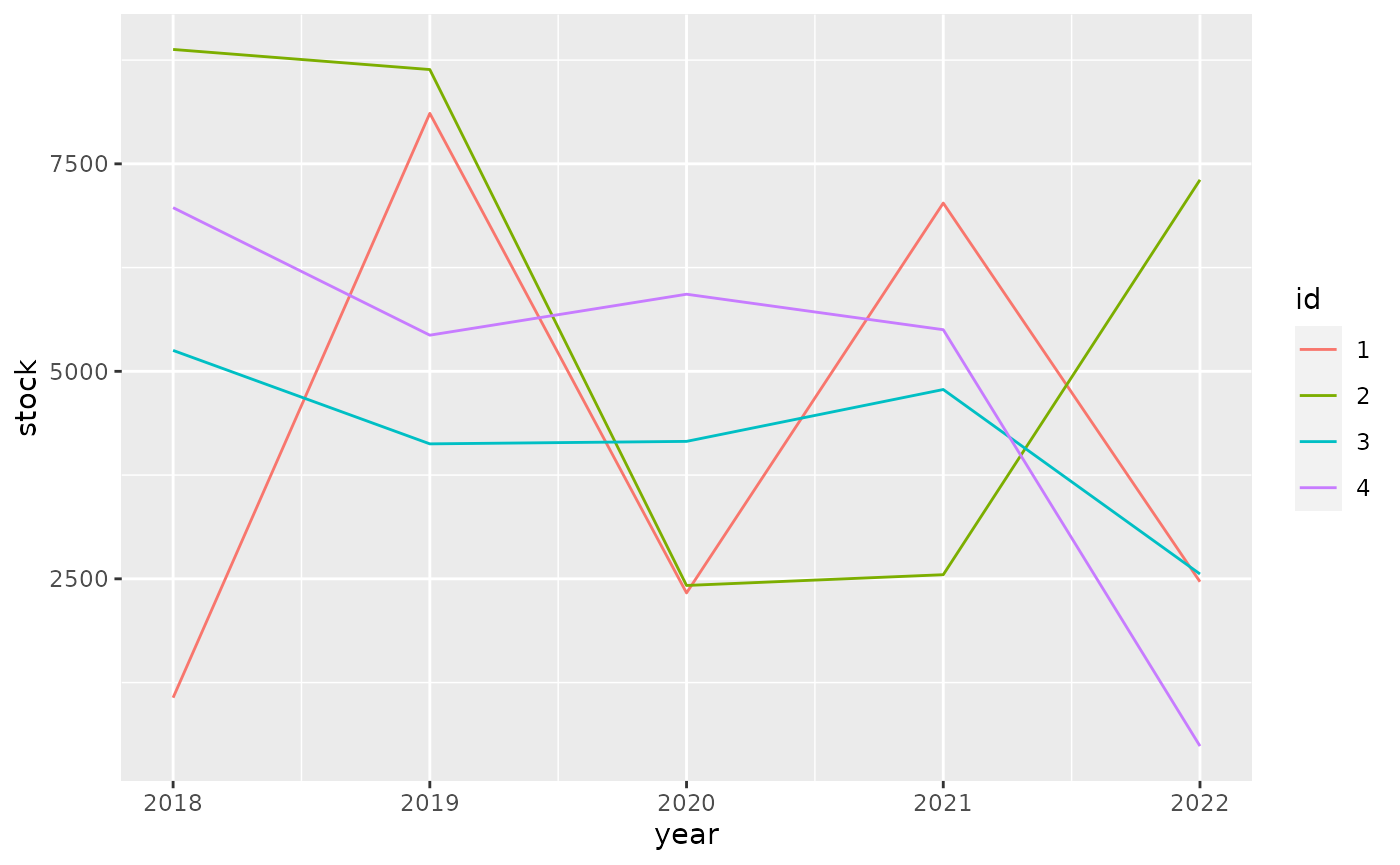
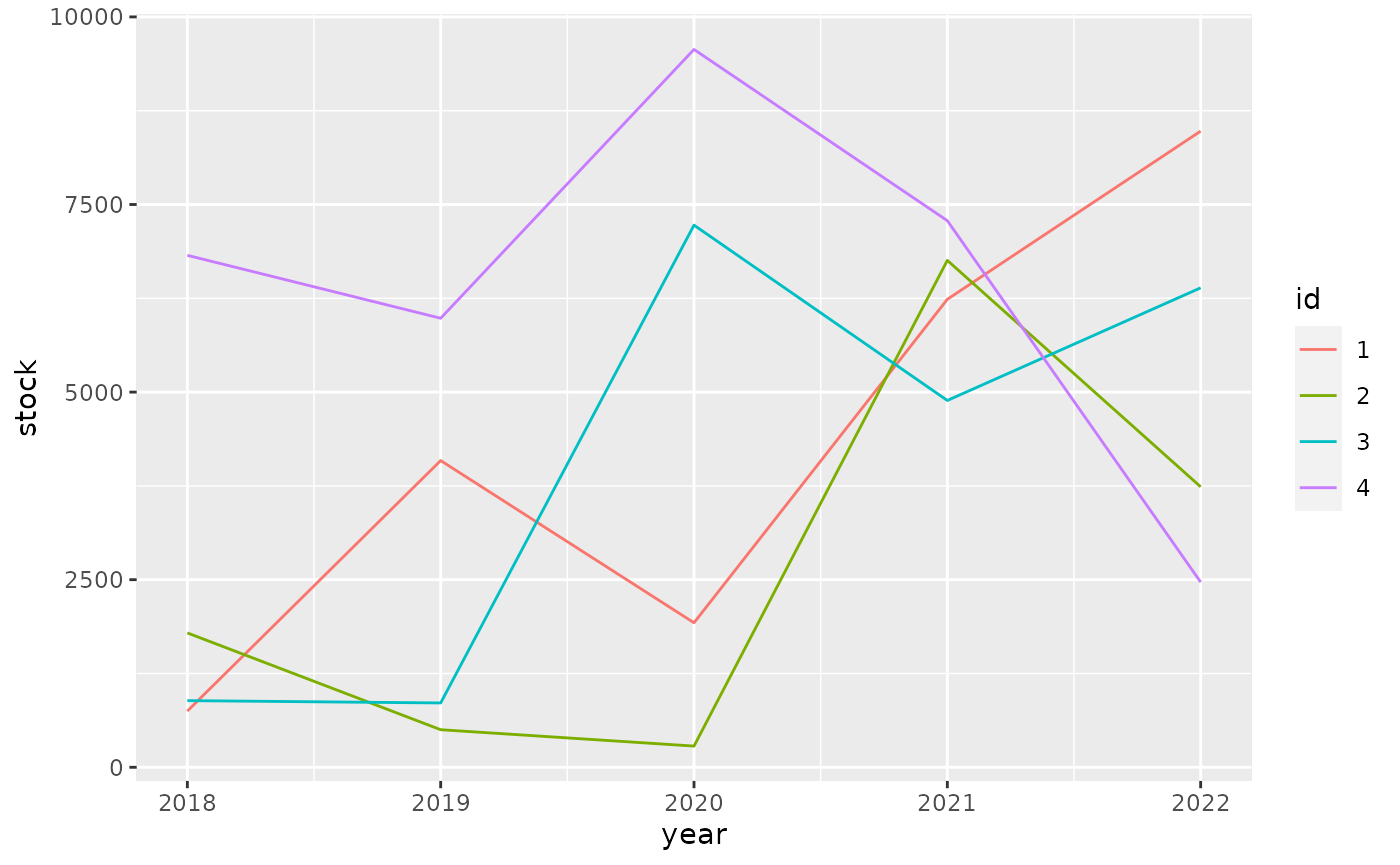
Built site for tibble: 3.1.3@f26d0eb

diff --git a/articles/formats.html b/articles/formats.html
@@ -171,9 +171,6 @@
 <code class="sourceCode R"><span class="kw"><a href="https://rdrr.io/r/base/library.html" class="external-link">library</a></span><span class="op">(</span><span class="va"><a href="https://dplyr.tidyverse.org" class="external-link">dplyr</a></span><span class="op">)</span>
 <span class="co">#&gt; </span>
 <span class="co">#&gt; Attaching package: 'dplyr'</span>
-<span class="co">#&gt; The following object is masked from 'package:tibble':</span>
-<span class="co">#&gt; </span>
-<span class="co">#&gt;     dim_desc</span>
 <span class="co">#&gt; The following objects are masked from 'package:stats':</span>
 <span class="co">#&gt; </span>
 <span class="co">#&gt;     filter, lag</span>
@@ -223,10 +220,10 @@
 <span class="co">#&gt; # A tibble: 4 × 6</span>
 <span class="co">#&gt;   id       `2018`    `2019`    `2020`    `2021`    `2022`</span>
 <span class="co">#&gt;   &lt;fct&gt; &lt;dbl:fmt&gt; &lt;dbl:fmt&gt; &lt;dbl:fmt&gt; &lt;dbl:fmt&gt; &lt;dbl:fmt&gt;</span>
-<span class="co">#&gt; 1 1     $1,067.54 $8,108.40 $2,330.01 $7,027.29 $2,464.50</span>
-<span class="co">#&gt; 2 2     $8,878.32 $8,636.04 $2,419.87 $2,549.60 $7,307.51</span>
-<span class="co">#&gt; 3 3     $5,252.00 $4,126.06 $4,155.93 $4,780.81 $2,558.10</span>
-<span class="co">#&gt; 4 4     $6,971.99 $5,435.59 $5,929.02 $5,501.46   $484.69</span></code></pre></div>
+<span class="co">#&gt; 1 1       $749.31 $4,087.50 $1,926.08 $6,236.47 $8,477.81</span>
+<span class="co">#&gt; 2 2     $1,790.68   $500.77   $282.60 $6,755.29 $3,737.81</span>
+<span class="co">#&gt; 3 3       $888.38   $857.38 $7,224.72 $4,888.53 $6,389.33</span>
+<span class="co">#&gt; 4 4     $6,822.50 $5,984.20 $9,566.42 $7,284.37 $2,467.63</span></code></pre></div>
 <p>For ggplot2 we need to do <a href="https://github.com/tidyverse/ggplot2/pull/4065" class="external-link">some work</a> to show apply the formatting to the scales.</p>
 <div class="sourceCode" id="cb6"><pre class="downlit sourceCode r">
 <code class="sourceCode R"><span class="kw"><a href="https://rdrr.io/r/base/library.html" class="external-link">library</a></span><span class="op">(</span><span class="va"><a href="https://ggplot2.tidyverse.org" class="external-link">ggplot2</a></span><span class="op">)</span>
@@ -237,10 +234,10 @@
   <span class="fu"><a href="https://ggplot2.tidyverse.org/reference/geom_path.html" class="external-link">geom_line</a></span><span class="op">(</span><span class="op">)</span></code></pre></div>
 <p><img src="formats_files/figure-html/unnamed-chunk-7-1.png" width="700"></p>
 <p>It pays off to specify formatting very early in the process. The diagram below shows the principal stages of data analysis and exploration from “R for data science”.</p>
-<div id="htmlwidget-4e1d91b17bc894872938" style="width:700px;height:432.632880098888px;" class="DiagrammeR html-widget"></div>
-<script type="application/json" data-for="htmlwidget-4e1d91b17bc894872938">{"x":{"diagram":"graph TD\n  Import --> Tidy\n  Tidy --> Transform\n  Transform --> Visualize\n  Visualize --> Communicate\n  Visualize --> Model\n  Model -.-> Transform"},"evals":[],"jsHooks":[]}</script><p>The subsequent diagram adds data formats, communication options, and explicit data formatting. The original r4ds transitions are highlighted in bold. There are two principal options where to apply formatting for results: right before communicating them, or right after importing.</p>
-<div id="htmlwidget-8bb0229cbff26d5c8176" style="width:700px;height:432.632880098888px;" class="DiagrammeR html-widget"></div>
-<script type="application/json" data-for="htmlwidget-8bb0229cbff26d5c8176">{"x":{"diagram":"graph TD\n  .csv --> Import\n  API --> Import\n  DBI --> Import\n  dbplyr --> Import\n  Import -.-> Format[Format for analysis]\n  Format -.-> Tidy\n\n  subgraph r4ds\n  Import ==> Tidy\n  Tidy ==> Transform\n  Transform ==> Visualize\n  Visualize ==> Model\n  Model -.-> Transform\n  Visualize ==> Communicate\n  end\n\n  Visualize -.-> FormatComm[Format for communication]\n  FormatComm -.-> Communicate\n\n  FormatComm -- Apply formatting early --> Format\n\n  dbplyr -.-> Tidy\n  dbplyr -.-> Transform\n  dbplyr -.-> Visualize\n\n  Communicate --> gt\n  Communicate --> ggplot2\n  Communicate --> DT\n  Communicate --> plotly"},"evals":[],"jsHooks":[]}</script><p>Applying formatting early in the process gives the added benefit of showing the data in a useful format during the “Tidy”, “Transform”, and “Visualize” stages. For this to be useful, we need to ensure that the formatting options applied early:</p>
+<div id="htmlwidget-92dba52d7ee80c4f7fc1" style="width:700px;height:432.632880098888px;" class="DiagrammeR html-widget"></div>
+<script type="application/json" data-for="htmlwidget-92dba52d7ee80c4f7fc1">{"x":{"diagram":"graph TD\n  Import --> Tidy\n  Tidy --> Transform\n  Transform --> Visualize\n  Visualize --> Communicate\n  Visualize --> Model\n  Model -.-> Transform"},"evals":[],"jsHooks":[]}</script><p>The subsequent diagram adds data formats, communication options, and explicit data formatting. The original r4ds transitions are highlighted in bold. There are two principal options where to apply formatting for results: right before communicating them, or right after importing.</p>
+<div id="htmlwidget-0d3f1e5f2fed8bf9de45" style="width:700px;height:432.632880098888px;" class="DiagrammeR html-widget"></div>
+<script type="application/json" data-for="htmlwidget-0d3f1e5f2fed8bf9de45">{"x":{"diagram":"graph TD\n  .csv --> Import\n  API --> Import\n  DBI --> Import\n  dbplyr --> Import\n  Import -.-> Format[Format for analysis]\n  Format -.-> Tidy\n\n  subgraph r4ds\n  Import ==> Tidy\n  Tidy ==> Transform\n  Transform ==> Visualize\n  Visualize ==> Model\n  Model -.-> Transform\n  Visualize ==> Communicate\n  end\n\n  Visualize -.-> FormatComm[Format for communication]\n  FormatComm -.-> Communicate\n\n  FormatComm -- Apply formatting early --> Format\n\n  dbplyr -.-> Tidy\n  dbplyr -.-> Transform\n  dbplyr -.-> Visualize\n\n  Communicate --> gt\n  Communicate --> ggplot2\n  Communicate --> DT\n  Communicate --> plotly"},"evals":[],"jsHooks":[]}</script><p>Applying formatting early in the process gives the added benefit of showing the data in a useful format during the “Tidy”, “Transform”, and “Visualize” stages. For this to be useful, we need to ensure that the formatting options applied early:</p>
 <ul>
 <li>give a good user experience for analysis
 <ul>

diff --git a/articles/types.html b/articles/types.html
@@ -148,12 +148,7 @@
     
     
 <div class="sourceCode" id="cb1"><pre class="downlit sourceCode r">
-<code class="sourceCode R"><span class="kw"><a href="https://rdrr.io/r/base/library.html" class="external-link">library</a></span><span class="op">(</span><span class="va"><a href="https://tibble.tidyverse.org/">tibble</a></span><span class="op">)</span>
-<span class="co">#&gt; </span>
-<span class="co">#&gt; Attaching package: 'tibble'</span>
-<span class="co">#&gt; The following object is masked from 'package:dplyr':</span>
-<span class="co">#&gt; </span>
-<span class="co">#&gt;     dim_desc</span></code></pre></div>
+<code class="sourceCode R"><span class="kw"><a href="https://rdrr.io/r/base/library.html" class="external-link">library</a></span><span class="op">(</span><span class="va"><a href="https://tibble.tidyverse.org/">tibble</a></span><span class="op">)</span></code></pre></div>
 <div id="overview" class="section level2">
 <h2 class="hasAnchor">
 <a href="#overview" class="anchor" aria-hidden="true"></a>Overview</h2>
@@ -355,8 +350,8 @@
 #&gt; $ `named list`  &lt;named list&gt; 1
 #&gt; $ factor        &lt;fct&gt; A
 #&gt; $ ordered       &lt;ord&gt; a
-#&gt; $ Date          &lt;date&gt; 2021-07-21
-#&gt; $ POSIXt        &lt;dttm&gt; 2021-07-21 12:28:42
+#&gt; $ Date          &lt;date&gt; 2021-07-22
+#&gt; $ POSIXt        &lt;dttm&gt; 2021-07-22 03:01:27
 #&gt; $ difftime      &lt;drtn&gt; 1 secs
 #&gt; $ hms           &lt;time&gt; 00:00:01
 #&gt; $ integer64     &lt;int64&gt; 10000000000
@@ -392,7 +387,7 @@
 <span class="co">#&gt;             "sym"</span>
 <span class="co">#&gt;         }, typeof(x))</span>
 <span class="co">#&gt; }</span>
-<span class="co">#&gt; &lt;bytecode: 0x56091c7ed928&gt;</span>
+<span class="co">#&gt; &lt;bytecode: 0x5641e54e58f8&gt;</span>
 <span class="co">#&gt; &lt;environment: namespace:pillar&gt;</span></code></pre></div>
 </div>
   </div>
